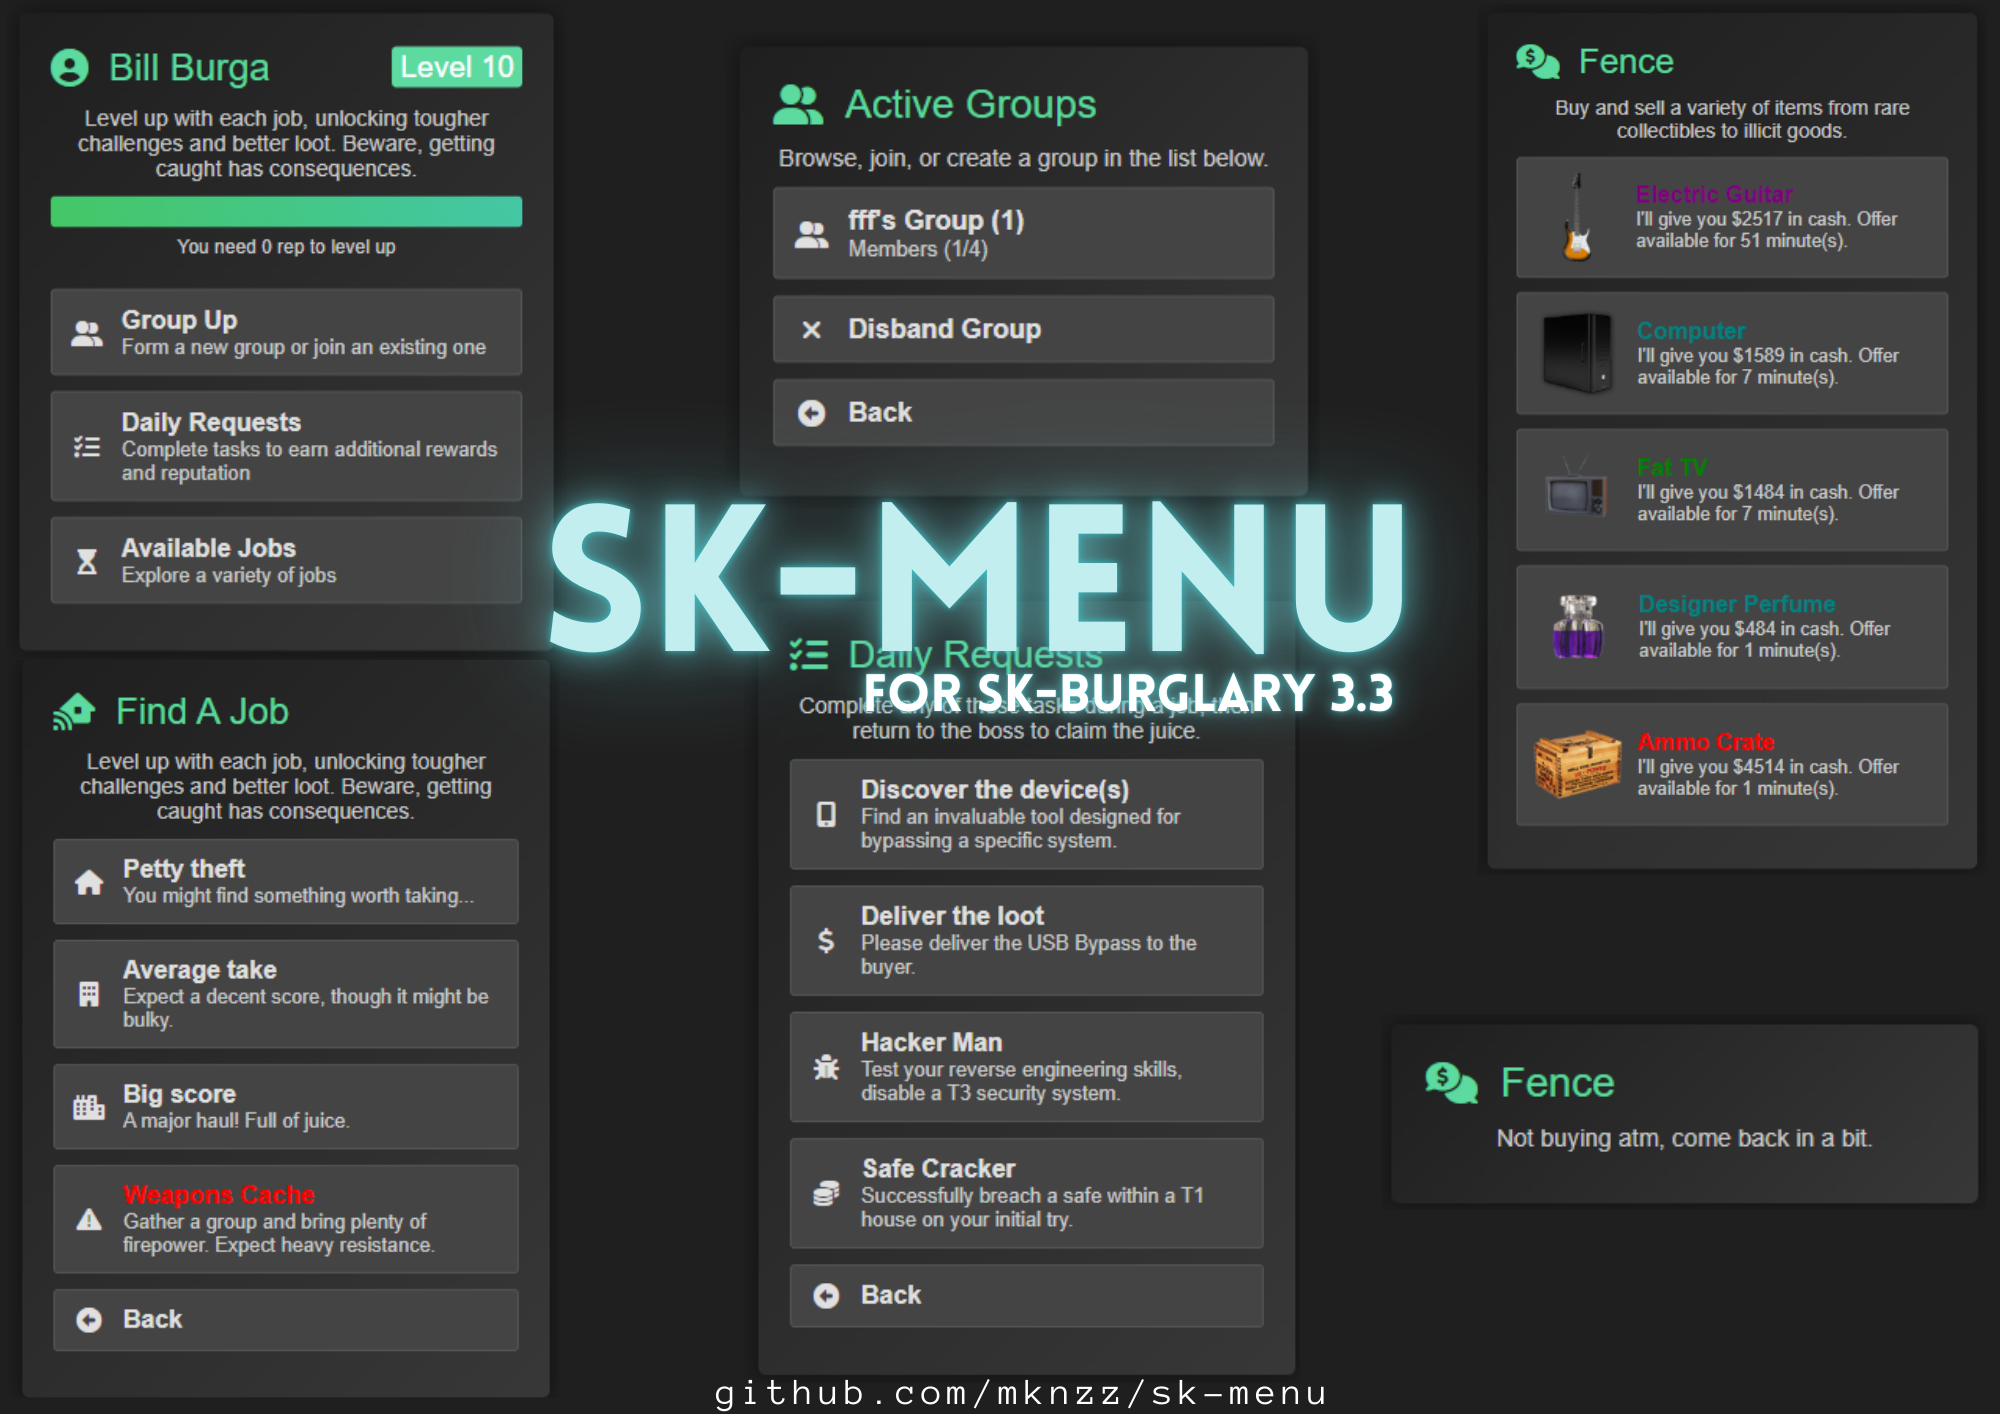
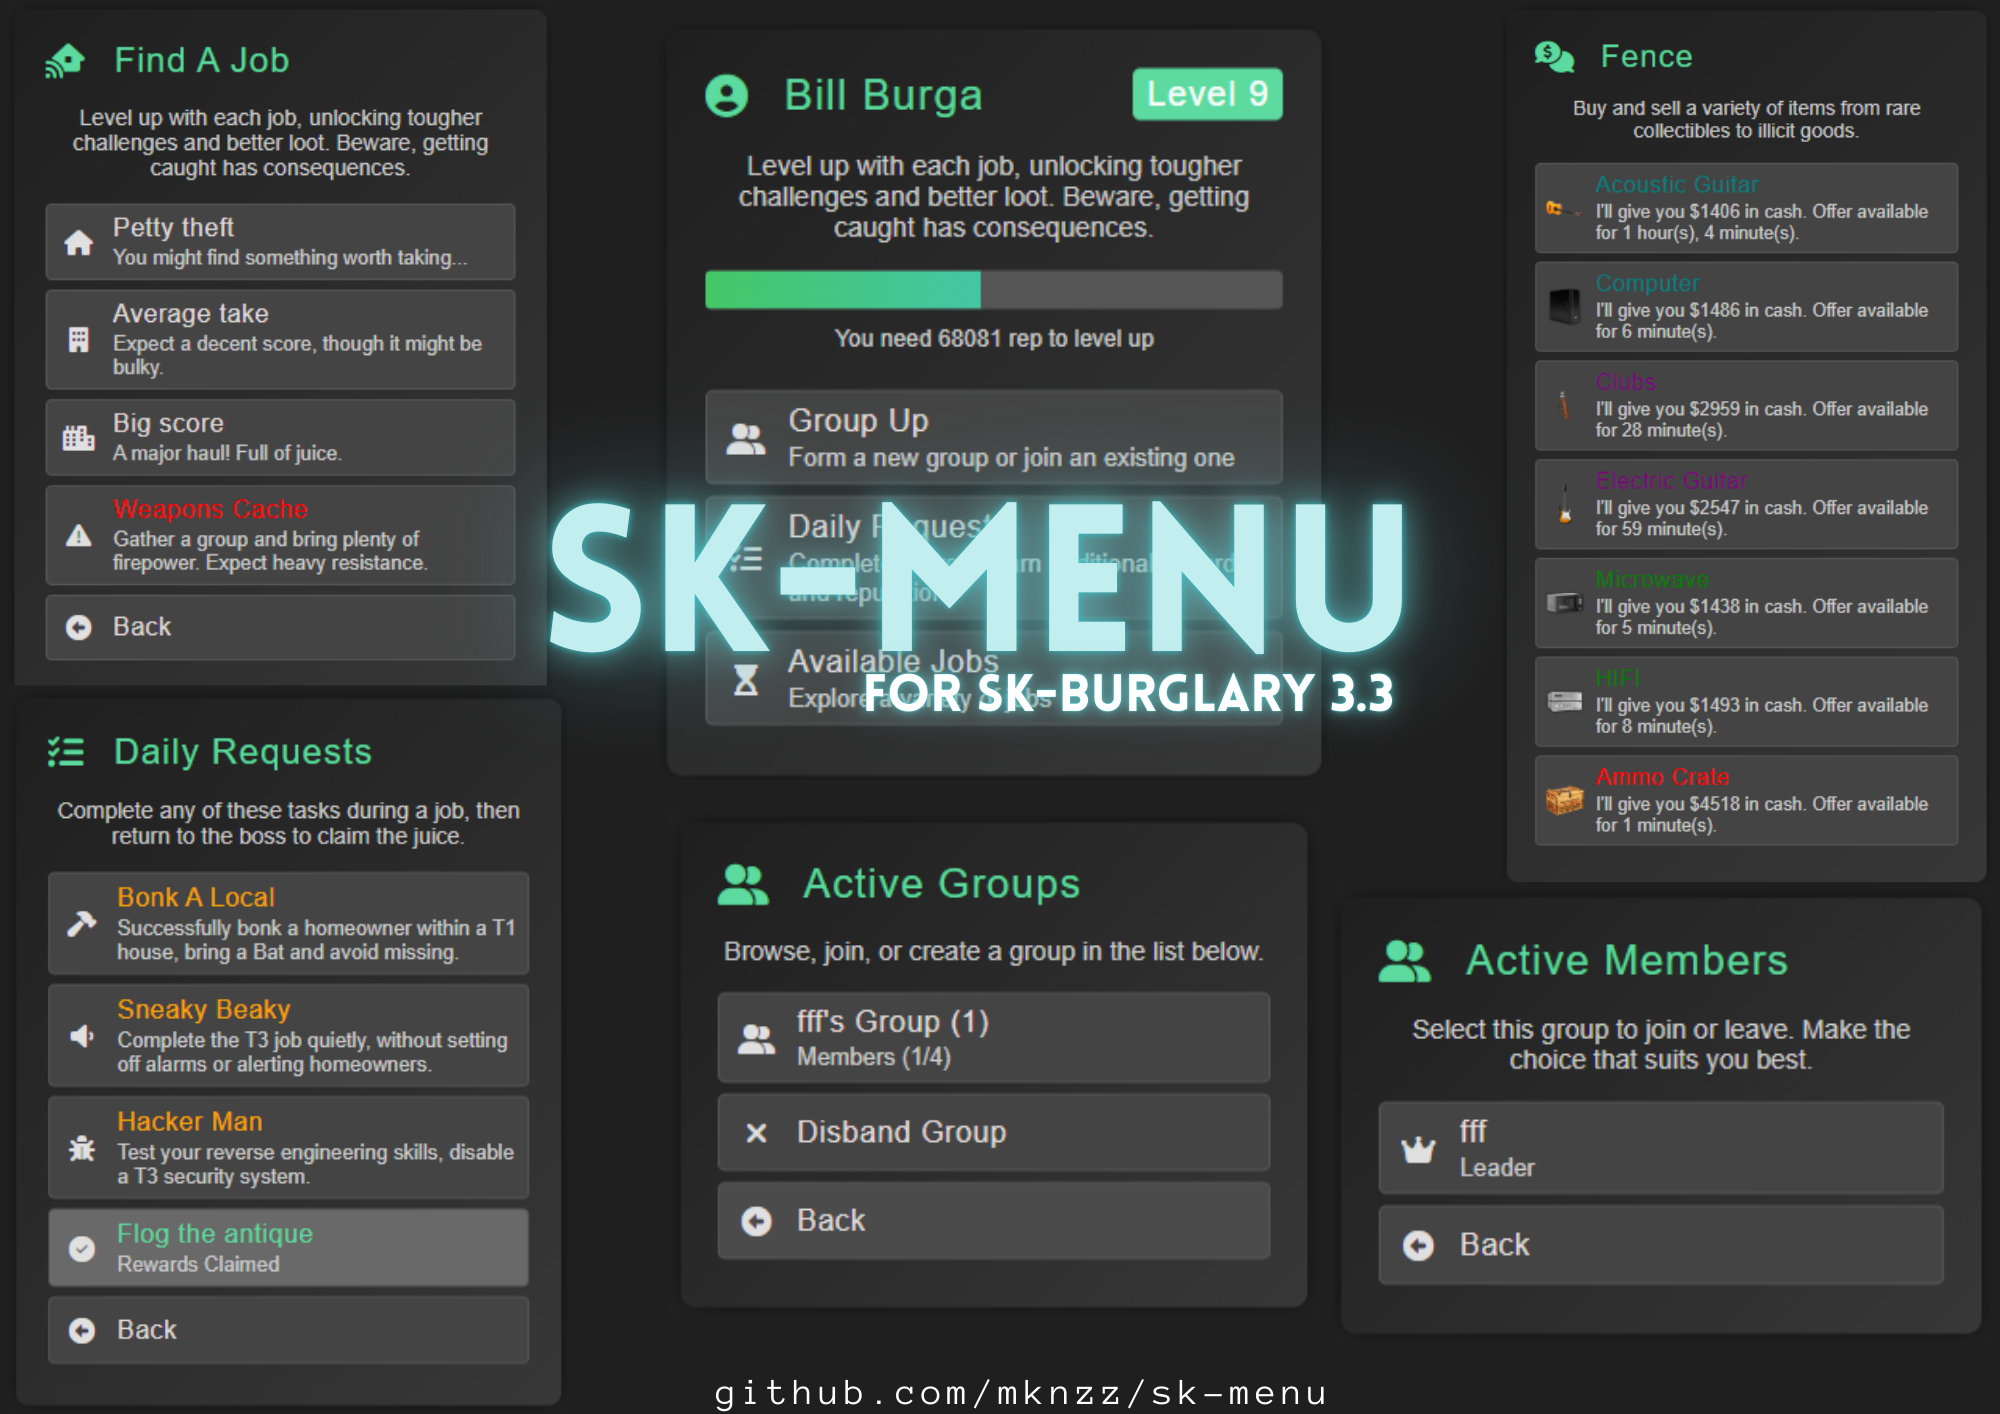
cleanup look

diff --git a/html/style.css b/html/style.css
@@ -2,6 +2,9 @@ body {
     background-color: #22222200;
     font-family: 'Roboto', sans-serif;
     color: #e0e0e0;
+    margin: 0;
+    padding: 0;
+    overflow: hidden;
 }
 
 .menu {
@@ -12,61 +15,96 @@ body {
     padding: 20px;
     background: linear-gradient(135deg, #1f1f1f, #383838);
     box-shadow: 0px 0px 15px rgba(0, 0, 0, 0.5);
-    border-radius: 5px;
-    transition: opacity 0.5s ease;
+    border-radius: 8px;
+    transition: opacity 0.4s ease, transform 0.4s ease;
+    transform: translateY(-10px);
 }
 
 .menu-title {
     display: flex;
     justify-content: space-between;
     align-items: center;
-    font-size: 24px;
-    margin-bottom: 10px;
+    font-size: 22px;
+    margin-bottom: 15px;
     color: #5cda9f;
+    letter-spacing: 1px;
 }
 
 .menu-title i {
-    margin-right: 5px;
+    margin-right: 8px;
 }
 
 .menu-title span {
     flex-grow: 1;
     text-align: left;
-    margin-left: 8px;
+    margin-left: 10px;
 }
 
 .menu-info {
     text-align: center;
     font-size: 14px;
-    margin-bottom: 10px;
-    color: #ccc;
+    margin-bottom: 15px;
+    color: #cccccc;
+}
+
+.level-box,
+.job-status-box {
+    padding: 3px 7px;
+    border-radius: 4px;
+    font-size: 0.8em;
 }
 
 .level-box {
     background-color: #5cda9f;
     color: #ffffff;
-    padding: 2px 5px;
-    border-radius: 3px;
-    font-size: 0.8em;
 }
 
 .job-status-box {
     background-color: #353636;
     color: #ffffff;
-    padding: 2px 5px;
-    border-radius: 3px;
-    font-size: 0.8em;
 }
 
 .menu-item {
     display: flex;
     align-items: center;
-    margin-bottom: 10px;
-    padding: 10px;
+    margin-bottom: 6px;  /* Further reduce margin for tighter spacing */
+    padding: 6px;  /* Further reduce padding to decrease height */
     background-color: #444;
     border: 1px solid #555;
     cursor: pointer;
-    border-radius: 3px;
+    border-radius: 4px;
+    transition: background-color 0.3s ease;
+}
+
+.menu-item img, .menu-item i {
+    width: 28px;  /* Slightly reduce width and height */
+    height: 28px;  /* Slightly reduce width and height */
+    object-fit: cover;
+    margin-right: 8px;  /* Bring the icon and content closer together */
+    flex-shrink: 0;
+    display: flex;
+    align-items: center;
+    justify-content: center;
+}
+
+.menu-item-content {
+    display: flex;
+    flex-direction: column;
+    justify-content: center;
+}
+
+.menu-item-header {
+    font-weight: 500;
+    font-size: 1em;
+    color: #e2dddd;
+    letter-spacing: 0.5px;
+    margin-bottom: 1px;  /* Reduce space between header and description */
+}
+
+.menu-item-description {
+    font-size: 0.8em;
+    color: #cccccc;
+    margin-top: 1px;  /* Reduce space between header and description */
 }
 
 .menu-item:hover {
@@ -74,29 +112,8 @@ body {
 }
 
 .menu-item i {
-    min-width: 24px; /* Set a minimum width to ensure consistent space for the icon */
+    min-width: 24px;
     text-align: center;
-}
-
-.menu-item img {
-    min-width: 24px; /* Set a minimum width to ensure consistent space for the icon */
-    text-align: center;
-}
-
-.menu-item-content {
-    margin-left: 10px;
-    display: flex;
-    flex-direction: column;
-}
-
-.menu-item-header {
-    font-weight: bold;
-    /* margin-bottom: 5px; */
-}
-
-.menu-item-description {
-    font-size: 0.8em;
-    color: #ccc;
 }
 
 .progress-bar {
@@ -116,7 +133,7 @@ body {
 .xp-info {
     text-align: center;
     font-size: 12px;
-    margin-top: 5px;
+    margin-top: 8px;
     margin-bottom: 20px;
-    color: #ccc;
+    color: #cccccc;
 }

diff --git a/README.md b/README.md
@@ -1,6 +1,6 @@
 # sk-menu
 
-Just a simple NUI menu for FiveM. It’s designed for our existing resources and will also serve as a fundamental component in our next project.
+A simple and clean NUI menu for FiveM, specifically designed to complement the sk-burglary script. We recommend using this menu with sk-burglary for auto refreshing, enhanced level information, and a smoother experience.
 
 ![alt text](sk-menu-burga.png)
 
